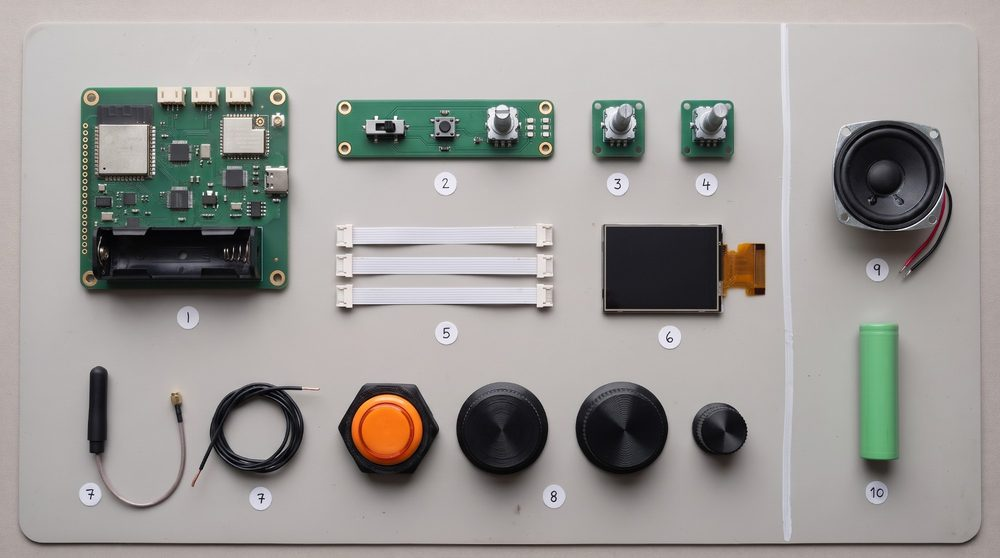
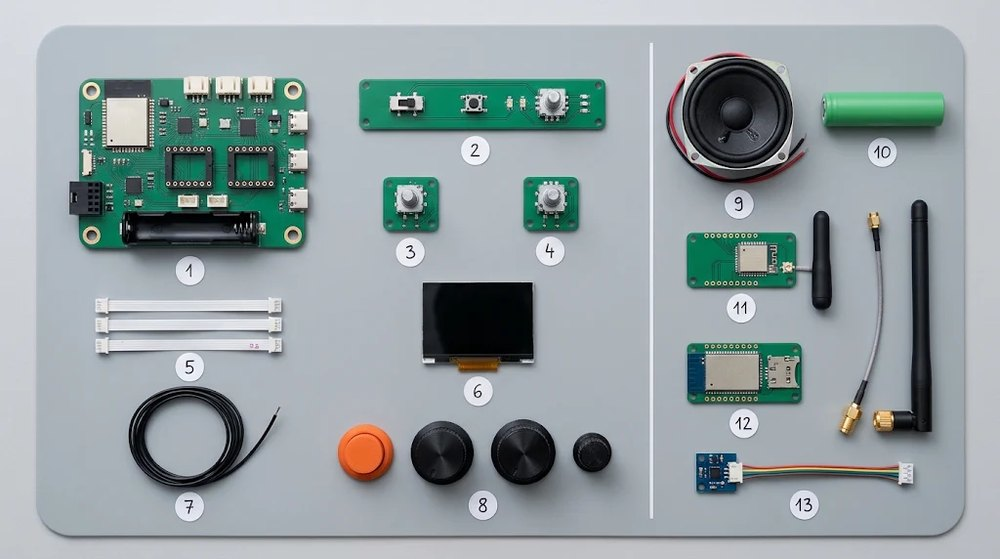
Use the new custom board picture, with the plug-in cards
Replace the board picture with the modular one: the base kit on the
left, and the speaker, cell and cards on the right. Re-place the
tap-a-part rings and list for its thirteen items.

Claude-Session: https://claude.ai/code/session_01LrNCnegJ2kkywH2Q5iJBTV

diff --git a/build.html b/build.html
@@ -147,7 +147,7 @@
         <div class="total"><span id="partTotalK">Per radio</span><span id="partTotalV">about NZ$61</span></div>
       </div>
     </div>
-    <p class="small muted fineprint">Generated pictures, not photos of our parts, so small details are wrong. The custom board picture shows an earlier layout, with the mesh radio on the main board; it is now a plug-in card. The speaker and the battery, right of the line, are sold separately.</p>
+    <p class="small muted fineprint">Generated pictures, not photos of our parts, so small details are wrong. Everything right of the line is sold separately: the speaker, the battery, and the mesh, 4G and tilt cards.</p>
     <div class="scroll">
       <table class="cmp">
         <thead><tr><th>What it does</th><th>The part</th><th>Why this one</th></tr></thead>
@@ -479,16 +479,10 @@ const PARTS = {
   "note": "Eighteen parts, about NZ$61, and two to three hours of soldering.",
   "items": [[ 13.9, 21.8, 16.5, 17.9, "ESP32-S3 board", "The brain: Wi-Fi, voice, encryption, the screen and games"],[ 27.4, 22.0, 8.5, 15.2, "Microphone", "Hears you"],[ 38.0, 22.8, 9.0, 17.0, "Amplifier", "Drives the speaker"],[ 50.2, 23.1, 14.5, 20.6, "Big orange button", "Hold to talk"],[ 63.1, 22.8, 12.5, 17.9, "Mode knob", "Left side. Picks Talk, FM, internet radio or Play"],[ 73.5, 22.8, 13.0, 17.9, "Select knob", "Right side. Picks who, which station or which game"],[ 12.6, 49.1, 12.5, 17.0, "Volume knob", "On top. Louder or quieter"],[ 26.4, 48.9, 16.5, 20.6, "Screen, 2.4 inch", "Names, stations and games, in black and white"],[ 38.4, 49.5, 7.5, 13.4, "FM tuner", "Ordinary FM radio, with no internet"],[ 49.2, 48.8, 14.5, 22.4, "FM aerial wire", "About 75 cm. Runs through the shoulder strap"],[ 60.2, 49.5, 7.5, 13.4, "Tilt sensor", "Knows upright from lying on its back"],[ 70.2, 49.5, 8.5, 16.1, "Mesh radio", "The always-on mesh, on its own chip"],[ 13.5, 78.0, 13.0, 29.6, "Mesh antenna", "For the mesh radio"],[ 26.8, 76.6, 9.0, 32.3, "Battery holder", "Holds one 18650 cell"],[ 38.2, 78.0, 8.0, 17.9, "Charger", "Charges the cell over USB-C"],[ 48.1, 77.8, 7.5, 12.5, "PUSH / OPEN switch", "Slide it to talk hands-free"],[ 58.5, 77.1, 10.0, 22.4, "Lights", "Red whenever the microphone can hear. Colours for talk and listen"],[ 70.2, 77.8, 13.5, 30.5, "Board and wire", "Joins it all up, by hand"],[ 88.8, 31.4, 14.5, 26.9, "Speaker", "Sold separately"],[ 87.8, 70.2, 7.5, 29.6, "Battery cell", "Sold separately"]]
  },
- "board": {
-  "title": "One custom board, as a kit",
-  "img": "images/parts-custom-board.jpg",
-  "note": "The base is about NZ$44 each to make at 100 and NZ$33 at 1,000. No soldering.",
-  "items": [[ 18.5, 33.8, 23.5, 42.1, "Main board", "Both radio chips, the audio, FM tuner, tilt sensor, charger, USB-C and the battery holder"],[ 44.5, 23.1, 24.5, 17.0, "Top board", "The talk switch, the PUSH / OPEN switch, the volume knob and the lights"],[ 61.9, 23.1, 8.5, 17.0, "Mode board", "The left-hand knob"],[ 70.8, 23.1, 8.5, 17.0, "Select board", "The right-hand knob"],[ 44.5, 47.5, 24.5, 20.6, "Three cables", "Join the small boards to the main board"],[ 68.2, 48.1, 19.5, 21.5, "Screen, 2.4 inch", "Plugs into the main board"],[ 20.0, 78.0, 26.0, 29.6, "Mesh antenna and FM aerial wire", "The antenna for the mesh radio, and the FM aerial for the strap"],[ 54.8, 77.1, 46.0, 24.2, "Button cap and knobs", "Small printed parts: the orange cap, two large knobs and the volume knob"],[ 88.8, 31.4, 14.5, 26.9, "Speaker", "Sold separately"],[ 87.8, 70.2, 7.5, 29.6, "Battery cell", "Sold separately"]]
- }
-};
+ "board": {"title": "One custom board, as a kit", "img": "images/parts-custom-board.jpg", "note": "The base is about NZ$44 each to make at 100 and NZ$33 at 1,000. No soldering.", "items": [[19.2, 28.8, 29.3, 42.0, "Main board", "The base: the main chip, audio, FM tuner, charger, two card bays, sensor sockets, USB-C ports and the battery holder"], [48.3, 18.7, 27.3, 14.0, "Top board", "The talk switch, the PUSH / OPEN switch, the volume knob and the lights"], [41.1, 36.4, 8.3, 14.9, "Mode board", "The left-hand knob"], [55.0, 36.4, 8.3, 14.9, "Select board", "The right-hand knob"], [18.8, 58.2, 22.0, 14.9, "Three cables", "Join the small boards to the main board"], [47.9, 58.0, 16.1, 23.6, "Screen, 2.4 inch", "Plugs into the main board"], [18.8, 78.1, 16.6, 21.9, "FM aerial wire", "About 75 cm. Runs through the shoulder strap"], [47.6, 80.8, 31.2, 18.4, "Button cap and knobs", "Small printed parts: the orange cap, two large knobs and the volume knob"], [73.9, 20.5, 16.1, 28.0, "Speaker", "Sold separately"], [88.2, 19.6, 15.6, 11.4, "Battery cell", "Sold separately"], [76.4, 46.9, 18.1, 21.0, "Mesh card and antenna", "Sold separately. The always-on mesh radio, for card bay 1. Fitted in a built radio"], [81.8, 65.6, 28.3, 43.7, "4G card and screw-on antenna", "Sold separately. A modem and SIM holder, for card bay 2. The antenna socket fits a hole in the case"], [80.9, 84.6, 25.9, 12.2, "Tilt sensor", "Sold separately. Plugs into a sensor socket on its cable"]]}};
 const ALTS = {
   modules: "Eighteen numbered hobby parts laid out on a grey mat, with a speaker and a battery set apart on the right.",
-  board: "The same radio as a kit on the same grey mat: one main board, a top board, two small knob boards, three cables, a screen, antennas and knobs, with a speaker and a battery set apart on the right."
+  board: "The base kit on a grey mat: one main board with two empty card bays, a top board, two small knob boards, three cables, a screen, an aerial wire, and a button cap with three knobs. Right of a line, sold separately: a speaker, a battery, a mesh card with its antenna, a 4G card with a screw-on antenna, and a tilt sensor on a cable."
 };
 const TOTALS = { modules: ["Per radio", "about NZ$61"], board: ["Per kit, to make", "about NZ$33 to 44"] };
 const ring = $("ring"), bom = $("bom");

diff --git a/index.html b/index.html
@@ -363,11 +363,11 @@
         <figcaption class="fig"><b>Fig. 4</b> Wired by hand: eighteen parts, about NZ$61, and two to three hours of soldering.</figcaption>
       </figure>
       <figure>
-        <a class="wide" href="build.html#parts"><img src="images/parts-custom-board_sml.jpg" alt="The same radio as a kit on the same grey mat: one main circuit board with a battery holder, a long top board with a switch, a button and a knob, two small knob boards, three flat cables, a screen, an antenna and aerial wire, and an orange button cap with three black knobs. A speaker and a battery sit apart on the right." loading="lazy" width="1000" height="558"></a>
-        <figcaption class="fig"><b>Fig. 5</b> One custom board: the base is about NZ$44 each to make at 100 and NZ$33 at 1,000. No soldering. The picture shows an earlier layout, with the mesh radio on the board.</figcaption>
+        <a class="wide" href="build.html#parts"><img src="images/parts-custom-board_sml.jpg" alt="The base kit on a grey mat: one main circuit board with two empty card bays and a battery holder, a long top board, two small knob boards, three flat cables, a screen, a coil of aerial wire, and an orange button cap with three black knobs. Right of a line, sold separately: a speaker, a battery, a mesh card with its antenna, a 4G card with a screw-on antenna, and a tilt sensor on a cable." loading="lazy" width="1000" height="558"></a>
+        <figcaption class="fig"><b>Fig. 5</b> One custom board: the base is about NZ$44 each to make at 100 and NZ$33 at 1,000. No soldering. The cards plug in.</figcaption>
       </figure>
     </div>
-    <p class="small muted fineprint"><a href="build.html#parts">See what each part is</a>. These are generated pictures, not photos of our parts, so small details are wrong. The speaker and the battery, right of the line, are sold separately. What each radio costs us to make, including GST, before the case, speaker and battery. At 1,000, the base with its mesh card is about NZ$48, which is NZ$13 a radio cheaper than the cheapest hand-wired build, about a fifth. The bigger saving is time: 100 radios by hand is 200 to 300 hours of soldering. These are November 2026 list prices and estimates, not quotes.</p>
+    <p class="small muted fineprint"><a href="build.html#parts">See what each part is</a>. These are generated pictures, not photos of our parts, so small details are wrong. Everything right of the line is sold separately: the speaker, the battery and the plug-in cards. What each radio costs us to make, including GST, before the case, speaker and battery. At 1,000, the base with its mesh card is about NZ$48, which is NZ$13 a radio cheaper than the cheapest hand-wired build, about a fifth. The bigger saving is time: 100 radios by hand is 200 to 300 hours of soldering. These are November 2026 list prices and estimates, not quotes.</p>
 
     <h3 class="sub">Three ways to get one</h3>
     <div class="modes three">

diff --git a/README.md b/README.md
@@ -14,10 +14,10 @@ The parts, built two ways:
 
 | Wired by hand, from modules | One custom board, as a kit |
 | --- | --- |
-| ![Eighteen numbered hobby parts laid out on a grey mat, with a speaker and a battery set apart on the right](images/parts-modules_sml.jpg) | ![The same radio as a kit: one main board, a top board, two small knob boards, three cables, a screen, antennas and knobs, with a speaker and a battery set apart on the right](images/parts-custom-board_sml.jpg) |
-| Eighteen parts, about NZ$61, and two to three hours of soldering | The base is about NZ$44 each to make at 100 and NZ$33 at 1,000. No soldering. The picture is of the earlier one-board layout |
+| ![Eighteen numbered hobby parts laid out on a grey mat, with a speaker and a battery set apart on the right](images/parts-modules_sml.jpg) | ![The base kit: one main board with two card bays, a top board, two small knob boards, three cables, a screen and knobs. Right of a line, sold separately: a speaker, a battery, a mesh card, a 4G card with a screw-on antenna, and a tilt sensor](images/parts-custom-board_sml.jpg) |
+| Eighteen parts, about NZ$61, and two to three hours of soldering | The base is about NZ$44 each to make at 100 and NZ$33 at 1,000. No soldering. Mesh, 4G and the tilt sensor plug in as cards |
 
-*Generated pictures, not photos of our parts. The speaker and the battery, right of the line, are sold separately. On the site you can [tap each part](https://popsradio.chrisbarlow.nz/build.html#parts) to see what it is.*
+*Generated pictures, not photos of our parts. Everything right of the line is sold separately. On the site you can [tap each part](https://popsradio.chrisbarlow.nz/build.html#parts) to see what it is.*
 
 The case comes two ways, and other shapes we looked at:
 

diff --git a/prompts/Walkie-Talkie Image Prompts.md b/prompts/Walkie-Talkie Image Prompts.md
@@ -133,7 +133,7 @@ Clean technical catalogue look, realistic scale between parts, neutral colours. 
 | 12 | 4G card, antenna socket and antenna | A modem and SIM holder on a plug-in card, for card bay 2. The socket fits a hole in the case, and the antenna screws on outside. It also makes the radio a Wi-Fi hotspot | No: sold separately |
 | 13 | Tilt sensor | Plugs into a sensor socket on its cable | No: sold separately |
 
-The base is about NZ$44 to make in a batch of 100 and NZ$33 in a batch of 1,000, with no soldering. All four boards are cut from one panel. This is a mock-up: the board is not drawn yet, so the layout in the picture is the generator's guess. The picture on the site was made from an earlier version of this prompt, with the mesh radio on the main board, and needs redoing.
+The base is about NZ$44 to make in a batch of 100 and NZ$33 in a batch of 1,000, with no soldering. All four boards are cut from one panel. This is a mock-up: the board is not drawn yet, so the layout in the picture is the generator's guess. The picture on the site was made from this prompt on 16 November 2026.
 
 **Getting 1b right.** Check six things: the tags run 1 to 13 with none repeated; eight items on the left and five on the right; no card, gold-connector antenna or sensor on the left; three cables; the two cards the same shape; and at least 2,000 pixels wide. If it comes out small, look for a size or quality setting in the generator: the prompt cannot force it.
 
